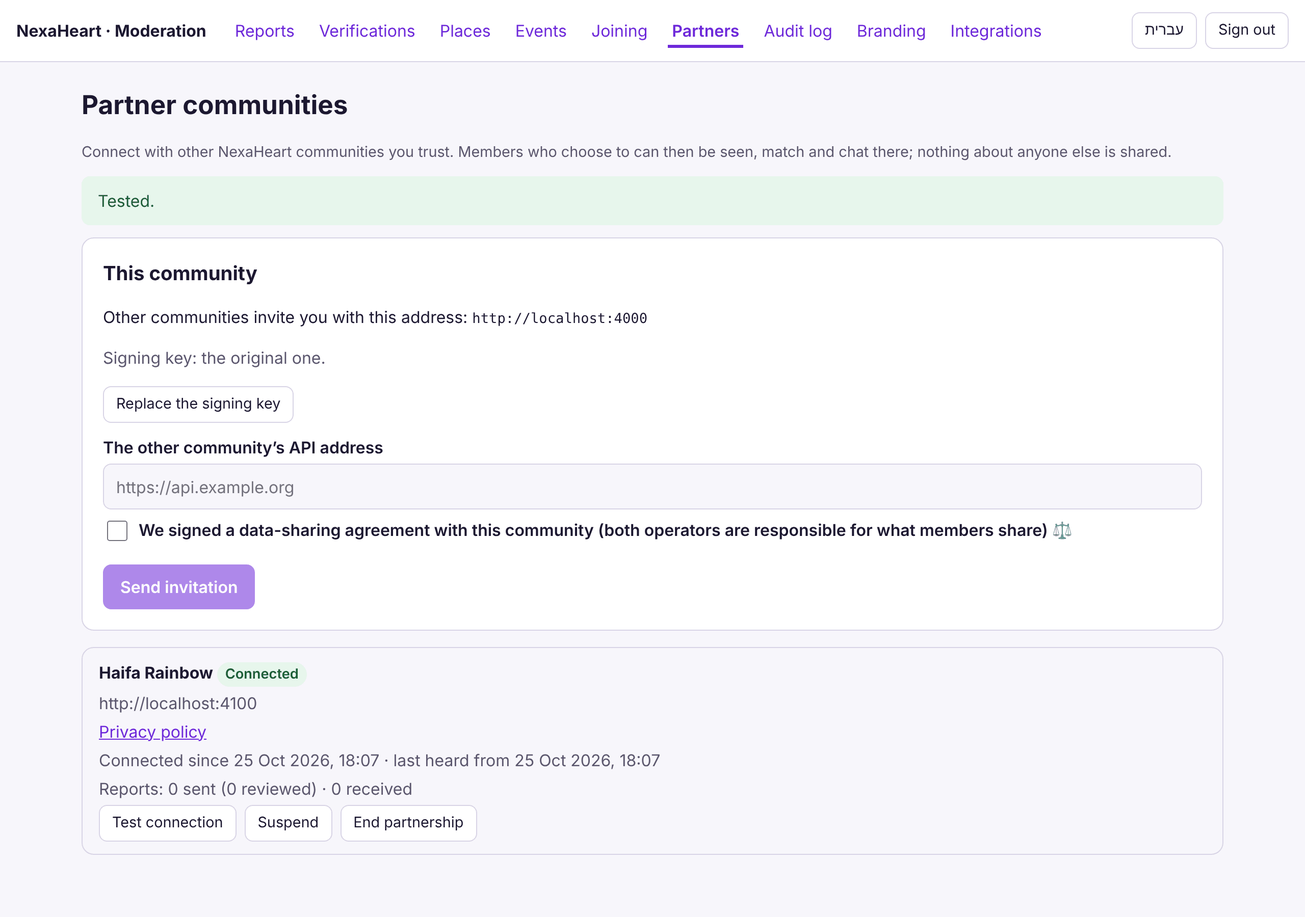
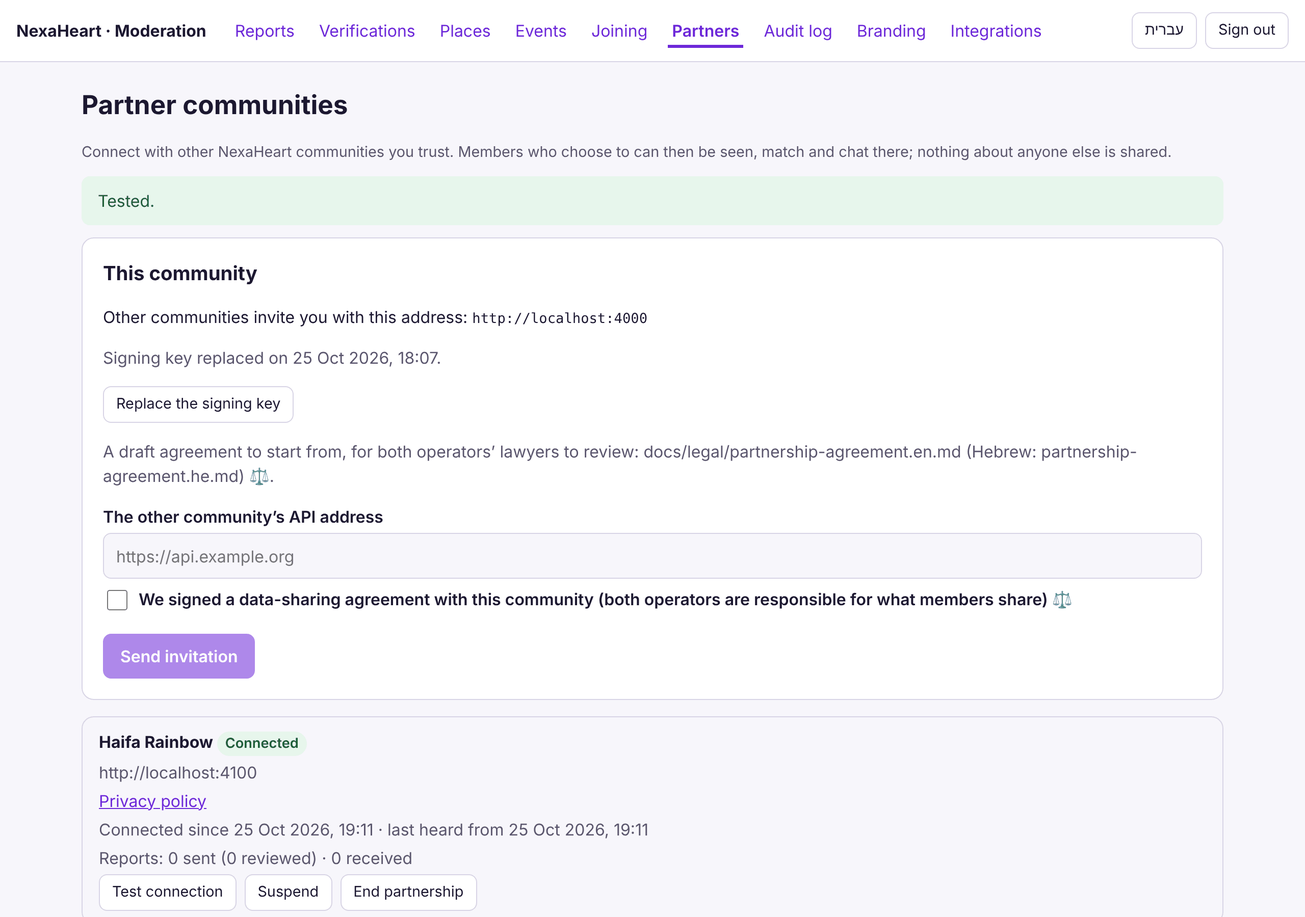
Legal: draft partnership agreement between communities (EN/HE)
A template for the two operators' lawyers, built from exactly what the software exchanges:
roles (joint controllers), what is and never is shared, sensitive data, use limits, report
handling and review times, suspension, retention and deletion, security, incidents, transfers,
minors and contacts. Linked from the legal README, ADMIN, the production checklist (a new
partner-communities section) and the dashboard's Partners page.

diff --git a/apps/admin/src/i18n.ts b/apps/admin/src/i18n.ts
@@ -328,6 +328,8 @@ const en = {
     agreementInvite:
       'We signed a data-sharing agreement with this community (both operators are responsible for what members share) ⚖',
     agreement: 'We signed a data-sharing agreement with {{name}} ⚖',
+    agreementTemplate:
+      'A draft agreement to start from, for both operators’ lawyers to review: docs/legal/partnership-agreement.en.md (Hebrew: partnership-agreement.he.md) ⚖.',
     invite: 'Send invitation',
     invited: 'Invitation sent.',
     accept: 'Accept',
@@ -934,6 +936,8 @@ const he: Messages = {
     inviteLabel: 'כתובת ה־API של הקהילה השנייה',
     agreementInvite:
       'חתמנו על הסכם שיתוף מידע עם הקהילה הזו (שני המפעילים אחראים למה שחברי הקהילה משתפים) ⚖',
+    agreementTemplate:
+      'טיוטת הסכם להתחלה, לבדיקה של עורכי הדין של שני המפעילים: docs/legal/partnership-agreement.he.md ⚖.',
     agreement: 'חתמנו על הסכם שיתוף מידע עם {{name}} ⚖',
     invite: 'שליחת הזמנה',
     invited: 'ההזמנה נשלחה.',

diff --git a/apps/admin/src/pages/Partners.tsx b/apps/admin/src/pages/Partners.tsx
@@ -274,6 +274,7 @@ export function Partners({ isAdmin }: { isAdmin: boolean }) {
               </button>
             )
           ) : null}
+          <p className="muted">{p.agreementTemplate}</p>
           {isAdmin ? (
             <form className="stack" onSubmit={invite}>
               <label htmlFor="partner-url">{p.inviteLabel}</label>

diff --git a/docs/legal/partnership-agreement.he.md b/docs/legal/partnership-agreement.he.md
@@ -1,0 +1,133 @@
+<div dir="rtl">
+
+# הסכם שותפות ושיתוף מידע בין קהילות (טיוטה)
+
+> ⚖ **טיוטת תבנית, לא ייעוץ משפטי.** הטיוטה מתארת מה תוכנת NexaHeart משתפת כששתי קהילות מתחברות
+> (שלב 28). לפני החתימה יש להעביר אותה לבדיקה של עורך דין בכל אחת מהמדינות של שני המפעילים, ולהתאים
+> אותה לקהילות. שני האדמינים מאשרים בלוח הניהול שההסכם נחתם לפני שהשותפות מופעלת.
+
+**בין** [OPERATOR_A], [ADDRESS_A], המפעיל את הקהילה [COMMUNITY_A] בכתובת [API_URL_A] ("קהילה א"),
+**לבין** [OPERATOR_B], [ADDRESS_B], המפעיל את הקהילה [COMMUNITY_B] בכתובת [API_URL_B] ("קהילה ב"),
+יחד "הצדדים". בתוקף מ־[EFFECTIVE_DATE].
+
+## 1. מטרה
+
+הצדדים מחברים את הקהילות שלהם כדי שחברי קהילה שבוחרים בכך יוכלו לראות זה את זה, להתאים, להתכתב
+בטקסט ולדווח זה על זה לצורכי בטיחות. שום דבר אחר אינו חלק מההסכם: אין פרסום, אין אנליטיקה, ואין
+מכירה או שימוש אחר במידע של חברי הקהילה.
+
+## 2. תפקידים ⚖
+
+2.1 בעיבוד המתואר כאן הצדדים הם **בעלי שליטה משותפים** (סעיף 26 ל־GDPR), או לחלופין כל צד הוא בעל
+שליטה במידע שהוא מקבל (לבחור עם עורך הדין). לפי חוק הגנת הפרטיות, כל צד נשאר הבעלים של מאגר המידע
+שלו ואחראי למה שהוא מקבל.
+
+2.2 כל צד הוא **כתובת הפנייה של חברי הקהילה שלו**: הוא עונה על שאלות ובקשות (עיון, תיקון, מחיקה,
+התנגדות) ומעביר לצד השני את מה שנדרש כדי לטפל בהן. עיקרי ההסכם הזה מונגשים לחברי הקהילה (סעיף
+26(2) ל־GDPR), למשל בכל אחת ממדיניות הפרטיות.
+
+## 3. מה משותף, ומה אף פעם לא
+
+3.1 **רק לגבי מי שהצטרפו** ל"קהילות שותפות" באפליקציה, בהסכמה מפורשת (עם גרסה בתוכנה). אפשר לצאת
+בכל עת.
+
+3.2 **משותף:**
+
+- שם קוד אקראי לכל חבר/ת קהילה, שונה לכל שותף (אף פעם לא מזהה החשבון);
+- שם פרטי, גיל, מגדר, מה מחפשים, תיאור, תשובות לשאלות, שפות, והאם מודרטור אימת את התמונות;
+- תמונות פרופיל, **שמוגשות בכל פעם דרך הקהילה של החבר/ה ולא מועתקות**;
+- בכל חיפוש: המגדר של מי שמחפש, במי יש לו עניין, הגיל שלו וטווח הגילים שהוא מחפש;
+- לייקים, והתאמות (שם פרטי ותמונה אחת);
+- הודעות טקסט בין מי שהתאימו;
+- דיווחים (קטגוריה, דברי המדווח, ההודעות האחרונות בשיחה), והאם הדיווח נבדק.
+
+3.3 **אף פעם לא משותף:** אימייל, טלפון, מיקום מדויק או מרחק, דת, צורכי נגישות, קול, מה שחברים
+כתבו, זהות המדווח, החלטות מודרציה, וכל דבר על מי שלא הצטרפו.
+
+3.4 מגדר ובמי יש למישהו עניין עשויים לחשוף **נטייה מינית**, שהיא מידע מקטגוריה מיוחדת (סעיף 9
+ל־GDPR, "מידע רגיש" בחוק הישראלי). המידע הזה משותף רק בהסכמה מפורשת, משמש רק לחיפוש שאיתו הוא
+נשלח, והצד המקבל לא שומר אותו.
+
+## 4. שימוש
+
+כל צד משתמש במה שהוא מקבל רק כדי להציג לחברי הקהילה שלו את חברי הקהילה השותפה, להעביר לייקים,
+התאמות והודעות, ולטפל בבטיחות. הוא לא בונה פרופילים, לא מצליב את המידע עם מקורות אחרים, לא מעביר
+אותו לצד שלישי (מלבד מעבדים מטעמו לפי חוזה) ולא מאמן עליו מודלים.
+
+## 5. בטיחות ומודרציה
+
+5.1 בדיווח על חבר/ת קהילה של צד מטפל **אותו צד**, לפי הכללים שלו, תוך [REVIEW_DAYS] ימים
+([URGENT_HOURS] שעות כשמדובר בחשש לקטין או באיום), והוא מודיע לצד השני רק שהדיווח נבדק.
+
+5.2 כל צד מוודא שיש מי שמטפל בתור המודרציה שלו, שזהות המדווח לא נחשפת בו, ופונה לצד השני
+בכתובת [SAFETY_CONTACT] כשמקרה דורש את שניהם (למשל איום על ביטחונו של מישהו). חובות הדיווח לרשויות
+נשארות אצל כל צד לפי הדין שלו.
+
+5.3 כל צד רשאי **להשהות** את השותפות מיד אם הוא סבור שהצד השני מתעלם מדיווחים או מסכן חברי קהילה,
+ולהסביר לו את הסיבה תוך [NOTICE_DAYS] ימים.
+
+## 6. שמירה ומחיקה
+
+6.1 כל צד שומר את מה שקיבל רק כל עוד יש בו צורך:
+
+- המידע של חבר/ת קהילה נמחק כשהם יוצאים, מוחקים את החשבון או מושעים (ההתאמות והשיחות מסתיימות);
+- כל מה שהתקבל מהצד השני נמחק כשהשותפות מסתיימת.
+
+6.2 התוכנה מודיעה לצד השני באופן אוטומטי, וחוזרת ומנסה במשך 7 ימים אם אין אליו חיבור. כל צד פועל
+לפי בקשה כזו בלי דיחוי, ולא שומר גיבויים של מידע מהצד השני יותר מ־[BACKUP_DAYS] ימים.
+
+6.3 דיווחים שהתקבלו נשמרים כדיווחים של אותו צד ([RETENTION]).
+
+## 7. אבטחה
+
+כל צד מפעיל את התוכנה כפי שהיא מתועדת: בקשות בין השרתים חתומות ומתוארכות, מפתח החתימה מוגן,
+וחיבור ב־HTTPS בלבד. כמו כן כל צד:
+
+- מעדכן את התוכנה;
+- מחליף את מפתח החתימה אם ייתכן שהוא דלף;
+- מגביל את הגישה של הצוות;
+- מגן על מה שהוא מקבל לפחות כמו על המידע של חברי הקהילה שלו.
+
+## 8. אירועי אבטחה
+
+צד שנודע לו על אירוע אבטחה שפגע במידע שהוא קיבל מודיע על כך לצד השני תוך [BREACH_HOURS] שעות, עם
+מה שידוע לו. הצדדים משתפים פעולה בהודעות לרשויות ולחברי הקהילה כפי שהדין שלהם דורש.
+
+## 9. העברה בין מדינות ⚖
+
+אם הצדדים נמצאים במדינות שונות, הבסיס להעברת המידע הוא [ADEQUACY / STANDARD CONTRACTUAL CLAUSES /
+OTHER], כמפורט בנספח 2. (לישראל יש החלטת הלימות של האיחוד האירופי. את הכיוון ההפוך, ואת המצב בכל
+מדינה אחרת, יש לבדוק עם עורך הדין.)
+
+## 10. קטינים
+
+כל צד מקבל רק בגירים (18+) לפי הבדיקות שלו, ומשעה מיד מי שמתברר שהוא מתחת לגיל 18. התוכנה מסיימת
+אז את ההתאמות והשיחות שלו בשני הצדדים.
+
+## 11. אחריות
+
+כל צד אחראי לעיבוד שלו ולחברי הקהילה שלו. [LIABILITY_CLAUSE: לניסוח בידי עורך הדין.]
+
+## 12. תוקף וסיום
+
+ההסכם מתחיל כששני הצדדים מאשרים אותו בלוח הניהול, ונמשך עד שאחד הצדדים מסיים שם את השותפות. הסיום
+חל מיד. סעיפים 6, 8 ו־11 ממשיכים לחול גם אחרי הסיום.
+
+## 13. אנשי קשר
+
+|               | קהילה א             | קהילה ב             |
+| ------------- | ------------------- | ------------------- |
+| מפעיל         | [OPERATOR_A]        | [OPERATOR_B]        |
+| פרטיות        | [PRIVACY_CONTACT_A] | [PRIVACY_CONTACT_B] |
+| בטיחות (דחוף) | [SAFETY_CONTACT_A]  | [SAFETY_CONTACT_B]  |
+
+**חתימות**: בשם קהילה א: \_\_\_\_\_\_\_\_\_\_ (שם, תפקיד, תאריך) · בשם קהילה ב: \_\_\_\_\_\_\_\_\_\_
+(שם, תפקיד, תאריך)
+
+---
+
+**נספח 1: המידע שמשותף.** הרשימה בסעיף 3, והתיאור הטכני ב־[`docs/phases/PHASE-28.md`](../phases/PHASE-28.md).
+
+**נספח 2: סעיפי העברה בין מדינות**, אם נדרשים (סעיף 9).
+
+</div>

diff --git a/docs/legal/partnership-agreement.en.md b/docs/legal/partnership-agreement.en.md
@@ -1,0 +1,132 @@
+# Partnership and data-sharing agreement between communities (draft)
+
+> ⚖ **Draft template, not legal advice.** It describes what the NexaHeart software exchanges when two
+> communities connect (phase 28). Have it reviewed by a lawyer for both operators' countries before
+> signing, and adapt it to your communities. Both admins confirm in the dashboard that it is signed
+> before a partnership becomes active.
+
+**Between** [OPERATOR_A], [ADDRESS_A], operating the community [COMMUNITY_A] at [API_URL_A]
+("Community A"), **and** [OPERATOR_B], [ADDRESS_B], operating the community [COMMUNITY_B] at
+[API_URL_B] ("Community B"), together "the Parties". Effective [EFFECTIVE_DATE].
+
+## 1. Purpose
+
+The Parties connect their communities so that members who choose to can see each other, match and
+chat with text, and report each other for safety. Nothing else is in scope: no advertising, no
+analytics, no sale or other use of members' data.
+
+## 2. Roles ⚖
+
+2.1 For the processing described here, the Parties are **joint controllers** (GDPR Art. 26), or
+otherwise each a controller of the data it receives (choose with counsel). Under Israel's Privacy
+Protection Law each Party remains the owner of its own database and is responsible for what it
+receives.
+
+2.2 Each Party is the **point of contact for its own members**: it answers their questions and
+requests (access, correction, deletion, objection) and passes on to the other Party what it needs
+to act on them. The essence of this agreement is made available to members (GDPR Art. 26(2)), for
+example in each privacy policy.
+
+## 3. What is shared, and what never is
+
+3.1 **Only about members who joined** "Partner communities" in the app, with explicit consent
+(versioned in the software). Members can leave at any time.
+
+3.2 **Shared:** a random code name for each member, different per partner (never the account id);
+first name, age, gender, what they are looking for, bio, prompt answers, languages, whether a
+moderator verified their photos; profile photos, **served each time through the member's own
+community and not copied**; for each search, the viewer's gender, who they are interested in,
+their age and the ages they look for; likes; matches (first name and one photo); text messages
+between matched members; reports (category, the reporter's words, the latest messages of their
+chat) and whether a report was reviewed.
+
+3.3 **Never shared:** email, phone, exact location or distance, religion, accessibility needs,
+voice, friends' takes, the identity of a reporter, moderation decisions, and anything about
+members who didn't join.
+
+3.4 Gender and who someone is interested in may reveal **sexual orientation**, a special category
+of data (GDPR Art. 9; "sensitive information" in Israeli law). It is shared only on explicit
+consent, used only for the search it comes with, and not stored by the receiving Party.
+
+## 4. Use
+
+Each Party uses what it receives only to show partner members to its own members, deliver likes,
+matches and messages, and handle safety. It does not profile members, combine the data with other
+sources, share it with third parties (other than its processors under contract), or use it to
+train models.
+
+## 5. Safety and moderation
+
+5.1 A report about a Party's member is handled by **that Party**, under its own rules, within
+[REVIEW_DAYS] days ([URGENT_HOURS] hours for possible minors and threats), and it tells the other
+Party only that the report was reviewed.
+
+5.2 Each Party keeps its moderation queue staffed, keeps the reporter's identity out of it, and
+contacts the other Party at [SAFETY_CONTACT] when a case needs both (for example a threat to
+someone's safety). Duties to inform authorities stay with each Party under its own law.
+
+5.3 Either Party may **suspend** the partnership at once if it believes the other ignores reports
+or puts members at risk; it tells the other Party why within [NOTICE_DAYS] days.
+
+## 6. Retention and deletion
+
+6.1 Each Party keeps what it received only as long as needed: a member's data is deleted when they
+leave, delete their account, or are suspended (matches and chats end), and everything received
+from the other Party is deleted when the partnership ends.
+
+6.2 The software tells the other Party automatically and retries for 7 days if it can't be reached;
+each Party acts on such a request without delay and does not keep backups of the other's data for
+longer than [BACKUP_DAYS] days.
+
+6.3 Reports received are kept as that Party's own reports ([RETENTION]).
+
+## 7. Security
+
+Each Party runs the software as documented (signed and dated requests between servers, its signing
+key protected, HTTPS only), keeps it updated, replaces its signing key if it may have leaked, limits
+staff access, and protects what it receives at least as well as its own members' data.
+
+## 8. Incidents
+
+A Party that learns of a personal data breach affecting what it received tells the other within
+[BREACH_HOURS] hours, with what is known, and they cooperate on notifications to authorities and
+members required by their laws.
+
+## 9. International transfers ⚖
+
+If the Parties are in different countries, the transfer basis is [ADEQUACY / STANDARD CONTRACTUAL
+CLAUSES / OTHER], attached as Annex 2. (Israel has an EU adequacy decision; check the other
+direction and any other country with counsel.)
+
+## 10. Minors
+
+Each Party admits only adults (18+) under its own checks and suspends anyone it finds to be under
+18 at once; the software then ends their matches and chats on both sides.
+
+## 11. Liability
+
+Each Party is responsible for its own processing and its own members. [LIABILITY_CLAUSE, to be
+drafted by counsel.]
+
+## 12. Term and ending
+
+This agreement starts when both Parties confirm it in the dashboard and lasts until either ends the
+partnership there, which takes effect at once. Sections 6, 8 and 11 survive.
+
+## 13. Contacts
+
+|                         | Community A         | Community B         |
+| ----------------------- | ------------------- | ------------------- |
+| Operator                | [OPERATOR_A]        | [OPERATOR_B]        |
+| Privacy contact         | [PRIVACY_CONTACT_A] | [PRIVACY_CONTACT_B] |
+| Safety contact (urgent) | [SAFETY_CONTACT_A]  | [SAFETY_CONTACT_B]  |
+
+**Signed** for Community A: \_\_\_\_\_\_\_\_\_\_ (name, role, date) · for Community B: \_\_\_\_\_\_\_\_\_\_
+(name, role, date)
+
+---
+
+**Annex 1: the data exchanged.** The table in section 3, and the technical description in
+[`docs/phases/PHASE-28.md`](../phases/PHASE-28.md).
+
+**Annex 2: transfer clauses**, if needed (section 9).

diff --git a/docs/legal/README.md b/docs/legal/README.md
@@ -3,12 +3,13 @@
 > ⚖ **Drafts only.** These texts describe what the NexaHeart software does. They are not legal advice and
 > must be reviewed by a lawyer for your country and community before you publish them.
 
-| Document                | English                                                        | עברית                                                          |
-| ----------------------- | -------------------------------------------------------------- | -------------------------------------------------------------- |
-| Privacy policy          | [privacy-policy.en.md](privacy-policy.en.md)                   | [privacy-policy.he.md](privacy-policy.he.md)                   |
-| Terms of use            | [terms.en.md](terms.en.md)                                     | [terms.he.md](terms.he.md)                                     |
-| Cookie policy           | [cookie-policy.en.md](cookie-policy.en.md)                     | [cookie-policy.he.md](cookie-policy.he.md)                     |
-| Accessibility statement | [accessibility-statement.en.md](accessibility-statement.en.md) | [accessibility-statement.he.md](accessibility-statement.he.md) |
+| Document                                                  | English                                                        | עברית                                                          |
+| --------------------------------------------------------- | -------------------------------------------------------------- | -------------------------------------------------------------- |
+| Privacy policy                                            | [privacy-policy.en.md](privacy-policy.en.md)                   | [privacy-policy.he.md](privacy-policy.he.md)                   |
+| Terms of use                                              | [terms.en.md](terms.en.md)                                     | [terms.he.md](terms.he.md)                                     |
+| Cookie policy                                             | [cookie-policy.en.md](cookie-policy.en.md)                     | [cookie-policy.he.md](cookie-policy.he.md)                     |
+| Accessibility statement                                   | [accessibility-statement.en.md](accessibility-statement.en.md) | [accessibility-statement.he.md](accessibility-statement.he.md) |
+| Partnership agreement (between two communities, phase 28) | [partnership-agreement.en.md](partnership-agreement.en.md)     | [partnership-agreement.he.md](partnership-agreement.he.md)     |
 
 Replace every `[PLACEHOLDER]`: `[OPERATOR]` (legal name), `[ADDRESS]`, `[CONTACT_EMAIL]`, `[COMMUNITY]`
 (the instance name), `[HOSTING_PROVIDER]` and its country, `[EMAIL_PROVIDER]`, `[EFFECTIVE_DATE]`,

diff --git a/docs/PRODUCTION_CHECKLIST.md b/docs/PRODUCTION_CHECKLIST.md
@@ -116,6 +116,18 @@ Full inventory: [PRIVACY.md](PRIVACY.md). ☐ Confirm each legal basis ⚖.
 - ☐ DPA with each provider; DPIA ([PRIVACY.md §6](PRIVACY.md)); Israeli registration / privacy officer
   questions ([§7](PRIVACY.md)); EU representative if needed.
 
+### Partner communities (only if `FEDERATION=on`) ⚖
+
+- ☐ For each partner: the [partnership agreement](legal/partnership-agreement.en.md) reviewed by
+  counsel in both countries and signed **before** confirming it in the dashboard (joint control,
+  sensitive data, transfers, review times for reports).
+- ☐ The `federation` consent text in the app and the partner lines in the privacy policy reviewed;
+  bump `FEDERATION_CONSENT_VERSION` when the wording changes.
+- ✅ Two-server tests: discovery, matching, chat, reports, suspension, the outbox and key rotation
+  (`pnpm --dir e2e federation`, `federated-discovery`, `federated-chat`, `federated-safety`).
+- ☐ `INTEGRATIONS_KEY` backed up (it seals the signing key); a contact for urgent safety cases with
+  each partner.
+
 ## 13. Accessibility ♿
 
 - ✅ axe-core WCAG 2.1 A/AA on every screen in the e2e suites: 0 violations; keyboard-only sign-in with

diff --git a/docs/ADMIN.md b/docs/ADMIN.md
@@ -151,7 +151,8 @@ questions are deleted 30 days after the event; the audit log keeps ids only, nev
 ## 7b. Partner communities (phase 28a)
 
 **Partners** connects this community with other NexaHeart communities you trust (off until the
-server sets `FEDERATION=on`). Invite another community by its API address, or accept an invitation
+server sets `FEDERATION=on`). Start from the draft
+[partnership agreement](legal/partnership-agreement.en.md) ⚖. Invite another community by its API address, or accept an invitation
 that arrived; both need you to confirm that the two operators signed a data-sharing agreement ⚖.
 **Test connection** sends a signed ping; **End partnership** stops it on both sides at once. In this
 step only the communities' names, addresses and public keys are exchanged, never anything about
